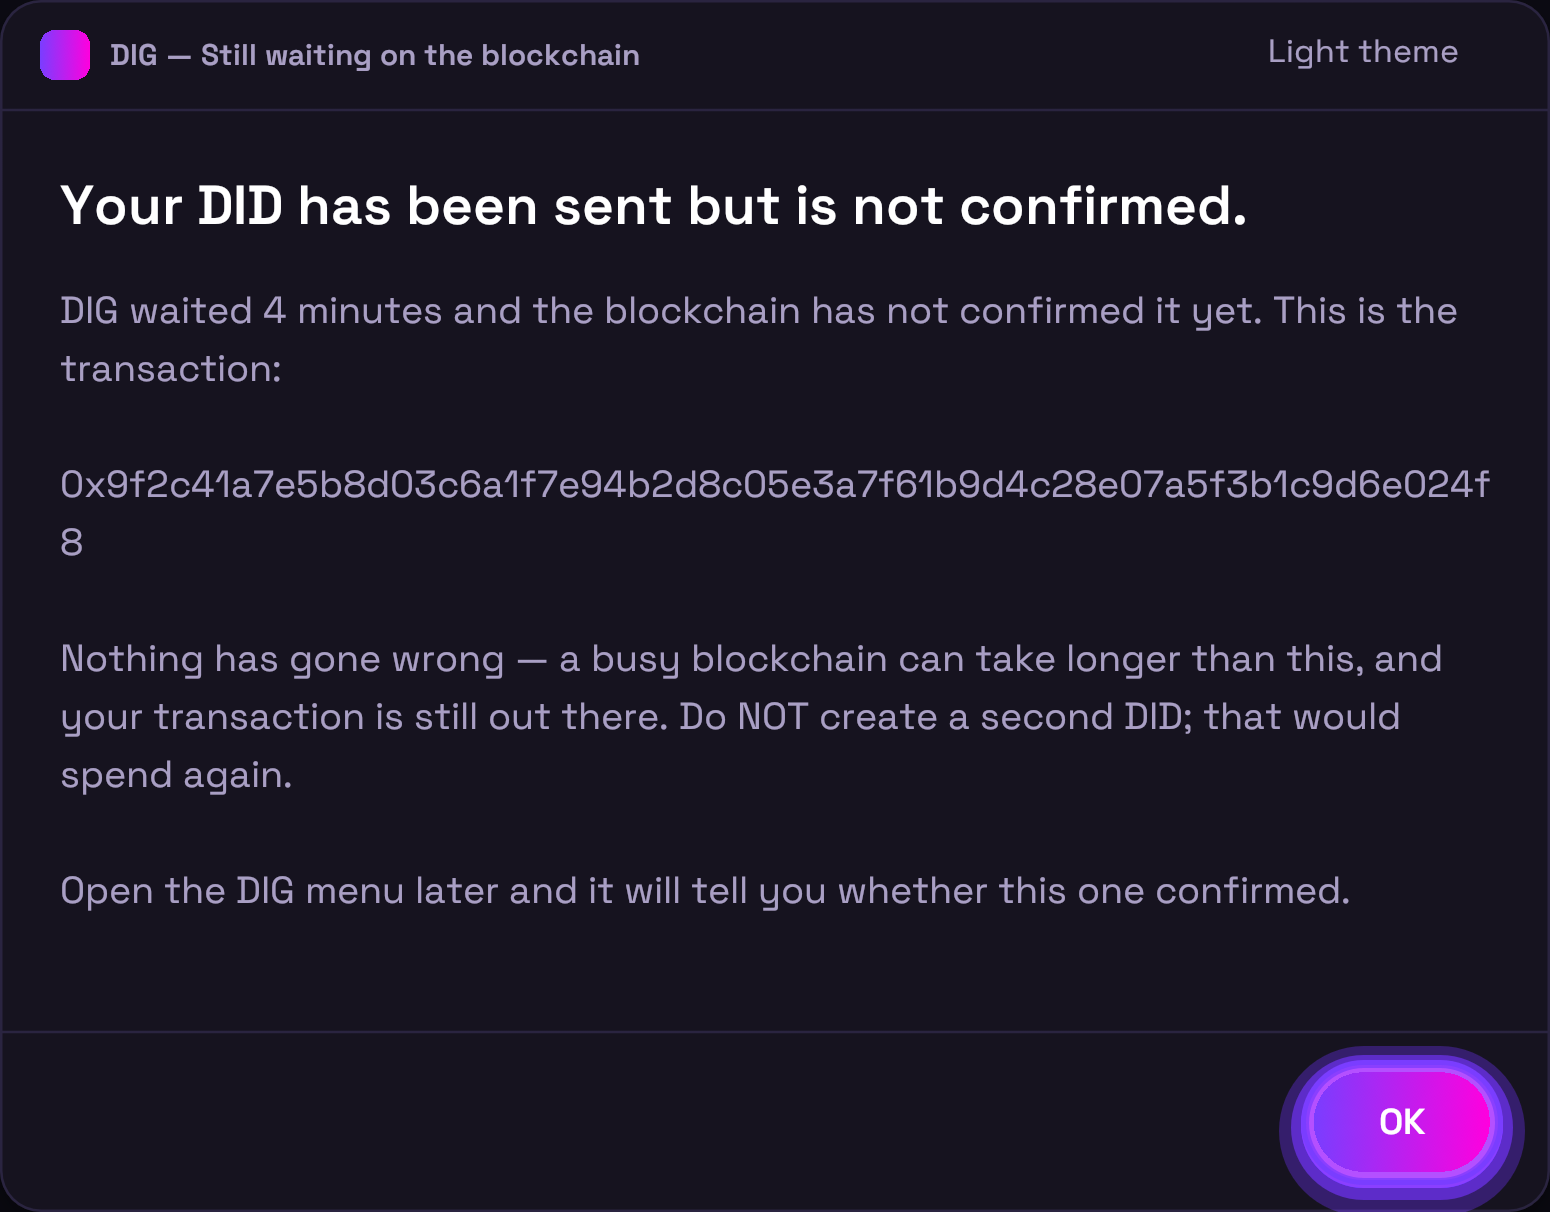
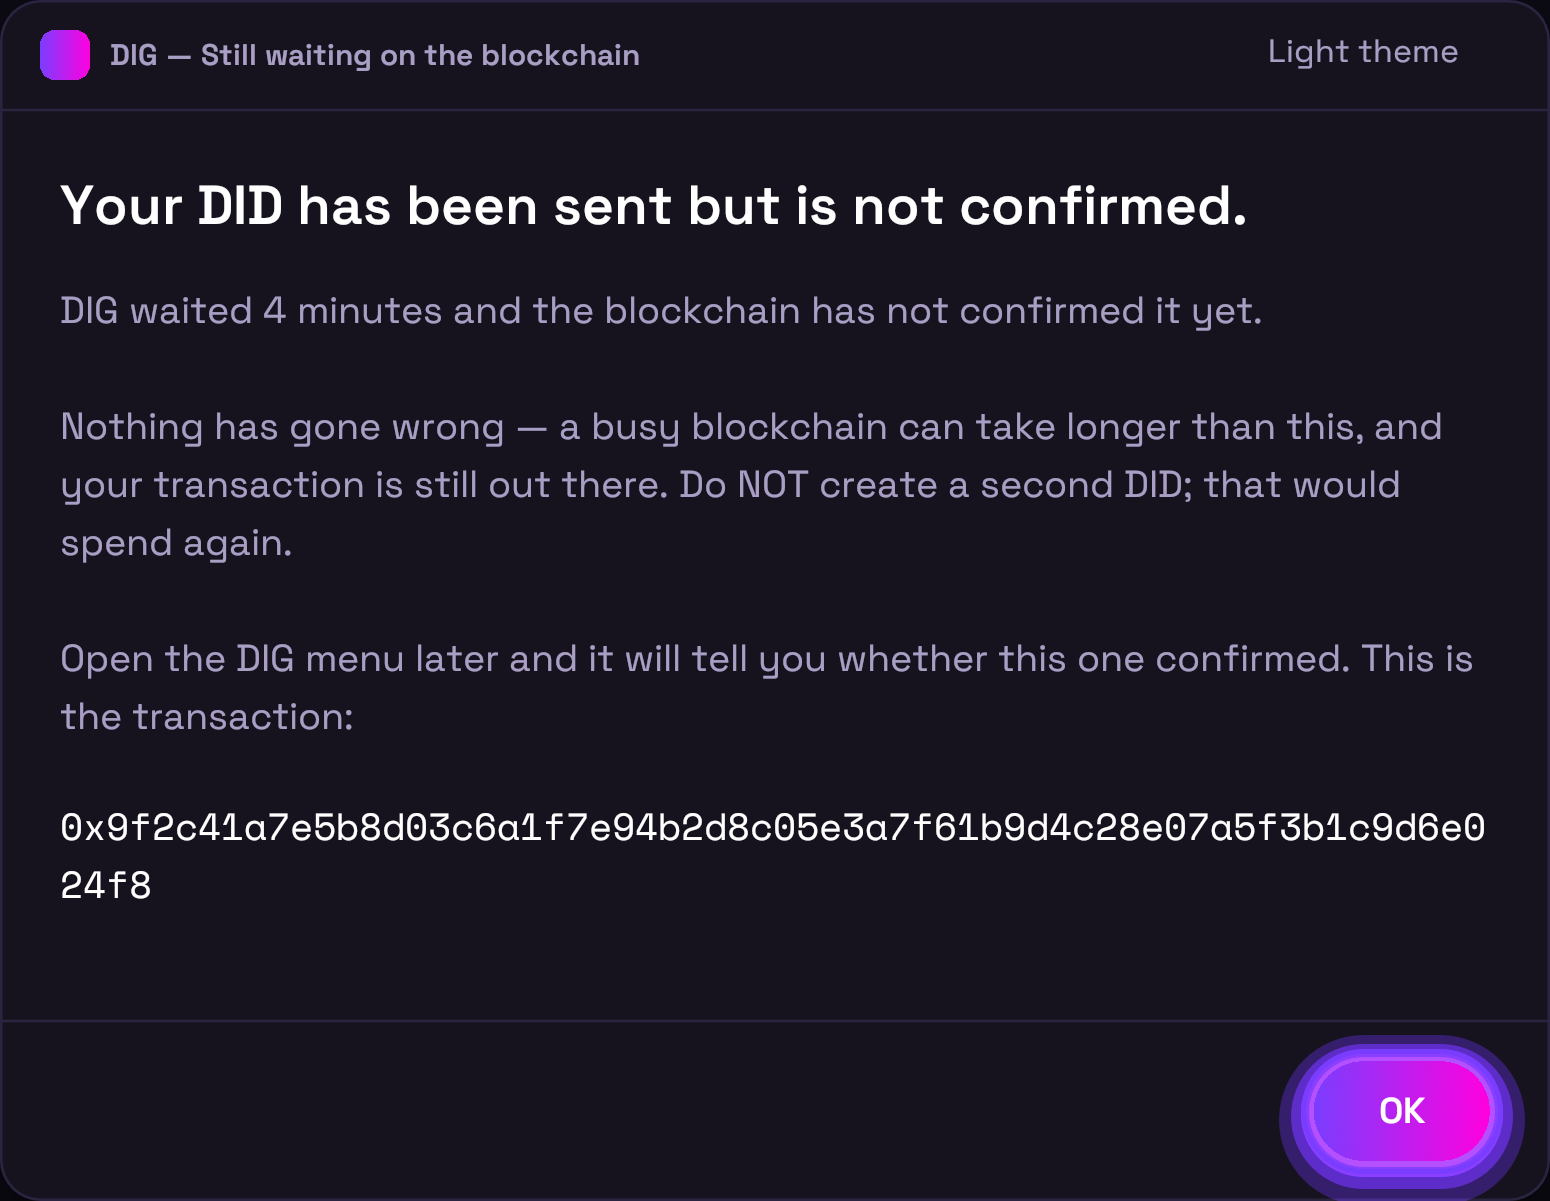
feat(account): a first-run DID wizard with a QR fund step and a real confirmation wait

diff --git a/crates/dig-app-core/src/account/journey.rs b/crates/dig-app-core/src/account/journey.rs
@@ -18,8 +18,8 @@ use crate::account::boot::DiscardOutcome;
 use crate::account::did::{DidLedger, DidRecord};
 use crate::account::lifecycle::{PhrasePresenter, RetentionDecision};
 use crate::account::mint::{
-    await_confirmation, DidMinter, KeepWaiting, MintObserver, MintOutcome, Submission, WaitProgress,
-    WaitSurface, POLL_EVERY_SECS,
+    await_confirmation, DidMinter, KeepWaiting, MintObserver, MintOutcome, Submission,
+    WaitProgress, WaitSurface, POLL_EVERY_SECS,
 };
 use crate::account::phrase_vault::PhraseVault;
 use crate::account::recovery::RecoveryPhrase;
@@ -906,7 +906,7 @@ pub trait AddressCopier {
 /// Grouped into one struct so the wizard's signature states one dependency rather than five, and so a
 /// test can swap the whole chain — minter, chain, wait surface, clock, ledger — at once.
 pub struct DidMinting<'a> {
-    /// Builds, signs and pushes the mint spend. [`UnavailableMinter`] until `dig-account`'s minter is
+    /// Builds, signs and pushes the mint spend. [`UnavailableMinter`](crate::account::mint::UnavailableMinter) until `dig-account`'s minter is
     /// real; the wizard's copy is honest about that on its own.
     pub minter: &'a dyn DidMinter,
     /// Watches the chain for the submitted spend.
@@ -915,7 +915,8 @@ pub struct DidMinting<'a> {
     pub surface: &'a dyn WaitSurface,
     /// The wall clock the wait measures elapsed time against.
     pub clock: &'a dyn Clock,
-    /// Where a CONFIRMED mint is remembered. Written on exactly one path — see [`mint_the_did`].
+    /// Where a CONFIRMED mint is remembered. Written on exactly one path: the arm of
+    /// [`mint_report`] that handles [`MintOutcome::Confirmed`], and nowhere else.
     pub ledger: &'a dyn DidLedger,
 }
 
@@ -1276,6 +1277,7 @@ pub fn waiting_screen(progress: &WaitProgress) -> WizardNotice {
                 false => copy::wait::AFTER_WAITED,
             }
         ),
+        identifier: None,
     }
 }
 
@@ -1341,7 +1343,13 @@ fn report_the_mint(confirmer: &dyn NativeConfirmer, ledger: &dyn DidLedger, outc
         _ => None,
     };
     let screen = mint_report(outcome, recorded);
-    notify(confirmer, screen.title, screen.heading, &screen.body);
+    confirmer.show_notice(&NoticePrompt {
+        title: screen.title,
+        heading: screen.heading,
+        body: &screen.body,
+        acknowledge: "OK",
+        identifier: screen.identifier.as_deref(),
+    });
 }
 
 /// One of the wizard's report screens, composed rather than drawn.
@@ -1354,8 +1362,15 @@ pub struct WizardNotice {
     pub title: &'static str,
     /// The one-line heading.
     pub heading: &'static str,
-    /// The body, which carries the DID, the spend id or the chain's own reason.
+    /// The body — prose, and the chain's own reason where there is one.
     pub body: String,
+    /// The one bare identifier this screen shows: the DID, or the spend to look up. `None` where the
+    /// screen shows neither.
+    ///
+    /// Kept out of the body because the window sets it in Space Mono, and a DID or a spend id is read
+    /// or transcribed character by character — in prose it wraps mid-token and `1`/`l` stop being
+    /// distinguishable.
+    pub identifier: Option<String>,
 }
 
 /// What the user is told about `outcome`.
@@ -1368,25 +1383,30 @@ pub fn mint_report(outcome: &MintOutcome, recorded: Option<bool>) -> WizardNotic
         MintOutcome::Confirmed { did, .. } => WizardNotice {
             title: copy::did::CONFIRMED_TITLE,
             heading: copy::did::CONFIRMED_HEADING,
-            body: format!(
-                "{did}
-
-{}",
-                match recorded {
-                    // The chain is the truth and it says the DID exists; what failed is this
-                    // computer's note of it. Saying so is better than a silent re-mint offer that
-                    // would spend again.
-                    Some(false) => copy::did::CONFIRMED_BUT_UNRECORDED_BODY,
-                    _ => copy::did::CONFIRMED_BODY,
-                }
-            ),
+            body: match recorded {
+                // The chain is the truth and it says the DID exists; what failed is this computer's
+                // note of it. Saying so is better than a silent re-mint offer that would spend again.
+                Some(false) => copy::did::CONFIRMED_BUT_UNRECORDED_BODY.to_owned(),
+                _ => copy::did::CONFIRMED_BODY.to_owned(),
+            },
+            identifier: Some(did.clone()),
         },
         MintOutcome::Rejected { reason } => WizardNotice {
             title: copy::did::REJECTED_TITLE,
             heading: copy::did::REJECTED_HEADING,
-            body: format!("{reason}
+            // The chain's own words are LABELLED and put last rather than led with. Unlabelled, a
+            // lowercase fragment from a node reads as a broken first sentence of DIG's own prose.
+            body: format!(
+                "{}
 
-{}", copy::did::REJECTED_BODY),
+{}
+{reason}",
+                copy::did::REJECTED_BODY,
+                copy::did::REJECTED_REASON_LABEL
+            ),
+            // A rejected spend is not something to look up or keep; the chain's reason is the
+            // whole answer, and it is prose.
+            identifier: None,
         },
         MintOutcome::StillPending {
             spend_id,
@@ -1395,7 +1415,7 @@ pub fn mint_report(outcome: &MintOutcome, recorded: Option<bool>) -> WizardNotic
             title: copy::did::PENDING_TITLE,
             heading: copy::did::PENDING_HEADING,
             body: format!(
-                "{}{}{}{spend_id}
+                "{}{}{}
 
 {}",
                 copy::did::PENDING_BEFORE_WAITED,
@@ -1403,13 +1423,13 @@ pub fn mint_report(outcome: &MintOutcome, recorded: Option<bool>) -> WizardNotic
                 copy::did::PENDING_AFTER_WAITED,
                 copy::did::PENDING_BODY,
             ),
+            identifier: Some(spend_id.clone()),
         },
         MintOutcome::ConnectionLost { spend_id } => WizardNotice {
             title: copy::did::OFFLINE_TITLE,
             heading: copy::did::OFFLINE_HEADING,
-            body: format!("{spend_id}
-
-{}", copy::did::OFFLINE_BODY),
+            body: copy::did::OFFLINE_BODY.to_owned(),
+            identifier: Some(spend_id.clone()),
         },
     }
 }
@@ -1590,7 +1610,9 @@ mod copy {
         pub const REJECTED_TITLE: &str = "DIG — Your DID was not created";
         /// Its heading.
         pub const REJECTED_HEADING: &str = "The blockchain did not accept the transaction.";
-        /// Its body, shown beneath the reason the chain gave.
+        /// The label the chain's own words are put under.
+        pub const REJECTED_REASON_LABEL: &str = "The blockchain's reason:";
+        /// Its body, shown above the reason the chain gave.
         pub const REJECTED_BODY: &str =
             "No DID was created. A rejected transaction does not spend the amount it was for, though a \
              fee may have been used.\n\n\
@@ -1602,14 +1624,18 @@ mod copy {
         pub const PENDING_HEADING: &str = "Your DID has been sent but is not confirmed.";
         /// The sentence before the elapsed figure.
         pub const PENDING_BEFORE_WAITED: &str = "DIG waited ";
-        /// The sentence after it, leading into the spend id.
-        pub const PENDING_AFTER_WAITED: &str =
-            " and the blockchain has not confirmed it yet. This is the transaction:\n\n";
-        /// The body beneath the spend id.
+        /// The sentence after it.
+        ///
+        /// It does NOT end in a blank line: [`mint_report`] joins the paragraphs, and a trailing
+        /// separator here made the rendered screen open with a hole the height of two lines.
+        pub const PENDING_AFTER_WAITED: &str = " and the blockchain has not confirmed it yet.";
+        /// The rest of the body. It ends by introducing the spend id, which the window draws beneath
+        /// the prose as its one mono identifier.
         pub const PENDING_BODY: &str =
             "Nothing has gone wrong — a busy blockchain can take longer than this, and your \
              transaction is still out there. Do NOT create a second DID; that would spend again.\n\n\
-             Open the DIG menu later and it will tell you whether this one confirmed.";
+             Open the DIG menu later and it will tell you whether this one confirmed. This is the \
+             transaction:";
         /// How a sub-minute wait is described.
         pub const LESS_THAN_A_MINUTE: &str = "less than a minute";
         /// The title when the chain could not be reached.
@@ -1621,7 +1647,7 @@ mod copy {
             "Your transaction was sent and is probably fine — what stopped is this computer's ability \
              to watch for it. Do NOT create a second DID; that would spend again.\n\n\
              Check this computer's internet connection, then open the DIG menu to see whether the DID \
-             confirmed.";
+             confirmed. This is the transaction:";
     }
 }
 

diff --git a/crates/dig-app-core/examples/dialog_gallery.rs b/crates/dig-app-core/examples/dialog_gallery.rs
@@ -388,7 +388,10 @@ mod wizard {
         };
         let notice = match which {
             "fund" => {
-                let art = confirmer.draws_qr().then(|| QrArt::encode(ADDRESS)).flatten();
+                let art = confirmer
+                    .draws_qr()
+                    .then(|| QrArt::encode(ADDRESS))
+                    .flatten();
                 let decision = confirmer.confirm_claim(&funding_claim(ADDRESS, art.as_ref()));
                 println!("did fund: {decision:?}");
                 return;
@@ -438,7 +441,7 @@ mod wizard {
             heading: notice.heading,
             body: &notice.body,
             acknowledge: "OK",
-            identifier: None,
+            identifier: notice.identifier.as_deref(),
         });
         println!("did {which}: {decision:?}");
     }

diff --git a/crates/dig-app-core/src/account/mint.rs b/crates/dig-app-core/src/account/mint.rs
@@ -570,7 +570,8 @@ mod tests {
         // A compile-time assertion, so an edit that reordered the two thresholds fails the BUILD
         // rather than one test — the ordering is what makes the "connection lost" message arrive
         // while the watch is still trying.
-        const _: () = assert!(UNREACHABLE_LOOKS_BEFORE_SAYING_SO < UNREACHABLE_LOOKS_BEFORE_GIVING_UP);
+        const _: () =
+            assert!(UNREACHABLE_LOOKS_BEFORE_SAYING_SO < UNREACHABLE_LOOKS_BEFORE_GIVING_UP);
         let healthy = WaitProgress {
             elapsed_secs: 60,
             give_up_after_secs: GIVE_UP_AFTER_SECS,

diff --git a/crates/dig-app/src/bin/dig-app.rs b/crates/dig-app/src/bin/dig-app.rs
@@ -38,7 +38,7 @@ use dig_app_core::account::boot::{
 use dig_app_core::account::did::DidFile;
 use dig_app_core::account::journey::{
     ask_for_phrase, first_run_wizard, AccountCustodian, AccountPresence, AddressCopier, DidMinting,
-    FirstRunOutcome, Replacement, WindowedWait, WindowedPresenter,
+    FirstRunOutcome, Replacement, WindowedPresenter, WindowedWait,
 };
 #[cfg(feature = "tray")]
 use dig_app_core::account::lifecycle::Seeding;

diff --git a/SPEC.md b/SPEC.md
@@ -1495,15 +1495,42 @@ down:
      reach the enrol step unchanged (the same-identity guarantee, §3.1a).
 
    Any refusal at any point leaves the host untouched (§3.1a, §3.2a).
-3. **Fund** — show the account's OWN derived receiving address. It is SHOWN, not awaited: the flow is a
-   chain of OS-owned modal windows (§3.1d) and a modal cannot poll a chain, so an implementation MUST NOT
-   present a "waiting for funds" screen it cannot actually be waiting on.
-4. **DID** — name the on-chain DID as the remaining REQUIRED step (§3.1b) and state plainly that minting
-   is not available in this version. It MUST NOT present a control that appears to mint.
+3. **Fund** — show the account's OWN derived receiving address, THREE ways: as the window's one mono
+   identifier, as a scannable code where the confirmer draws one (`NativeConfirmer::draws_qr`), and on
+   the clipboard via a control on the same screen. A code alone is NOT sufficient: the person most
+   likely to be funding is doing so from a wallet on the SAME computer and cannot scan their own
+   screen. The code MUST be drawn black-on-white in either theme (§3.1d) and MUST NOT be offered on a
+   host that will not draw it, since the copy would then point at a picture that is not there. Funding
+   is SHOWN, not awaited: the flow is a chain of OS-owned modal windows (§3.1d) and a modal cannot poll
+   a chain, so an implementation MUST NOT present a "waiting for funds" screen it cannot be waiting on.
+4. **DID** — offer the mint, naming what it costs, with the refusal PRE-SELECTED (affirming spends real
+   XCH). On a build that cannot mint (§3.1b), name the on-chain DID as the remaining REQUIRED step and
+   state plainly that minting is not available in this version; it MUST NOT present a control that
+   appears to mint.
+5. **Wait** — where a mint WAS submitted, watch the chain (`account::mint::await_confirmation`). The
+   wait MUST report what is being waited for and HOW LONG it has been waiting, and MUST offer a way to
+   stop that does not cancel the spend. It MUST end in one of four distinct, honest outcomes —
+   confirmed, rejected by the chain, still pending, or the chain unreachable — and MUST NOT present an
+   indefinite indicator that can neither fail nor time out.
 
-Both routes end on the SAME fund + DID screens (`show_account_ready`) so they cannot drift. Every step
+Both routes end on the SAME fund + DID steps (`finish_the_identity`) so they cannot drift. Every step
 MUST be escapable without half-creating an account. Reading content is NOT gated on any of
 this: `Open URL…` stays enabled in every account state (§6.0 — consumption is never gated on custody).
+
+**What gates the wizard (normative).** It runs when the account has NO DID — not when it has no
+account (`account::journey::wizard_needed`). A wallet enrolled by an earlier version therefore still
+reaches the fund and DID steps, entering at step 3. A DID is read ONLY from a
+`account::did::DidRecord`, which cannot exist without a `MintEvidence` carrying a confirmation height,
+so no key, address or locally-written DID-shaped string can satisfy the gate (§3.1b).
+
+**What the absence of a DID gates (normative).** It gates the surfaces that BEAR the user's identity —
+publishing, signing for an app, messaging (`account::did::Capability`) — and NOTHING else. Reading
+content and holding funds MUST remain available with no account and no DID, so the wizard MUST NOT be
+made an unconditional wall: a user who declines it keeps a usable app.
+
+**Success requires evidence (normative).** A submitted spend is NOT a minted DID. An implementation
+MUST NOT record a DID, report an identity as ready, or show a success screen from a submission — only
+from a chain sighting that confirms it, and the evidence from that sighting is what is recorded.
 
 ### 3.3 Wallet
 
